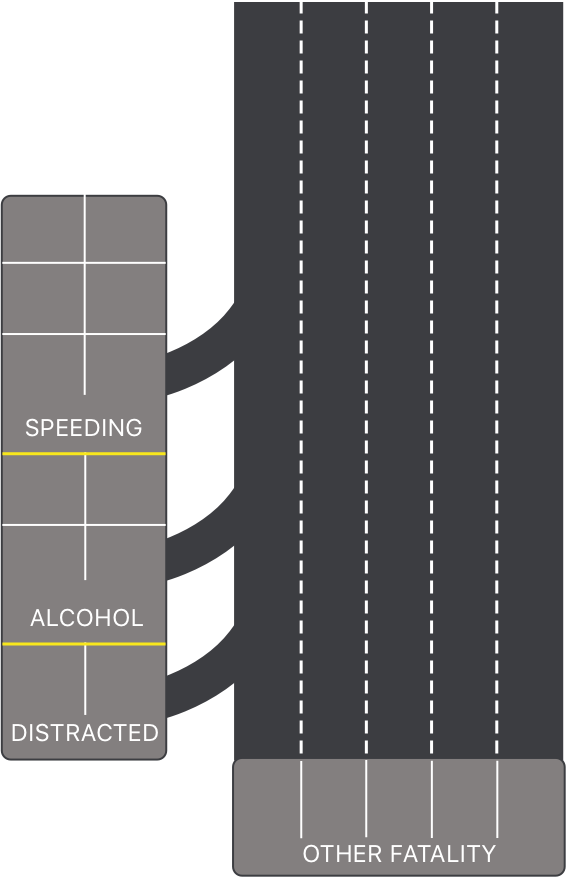
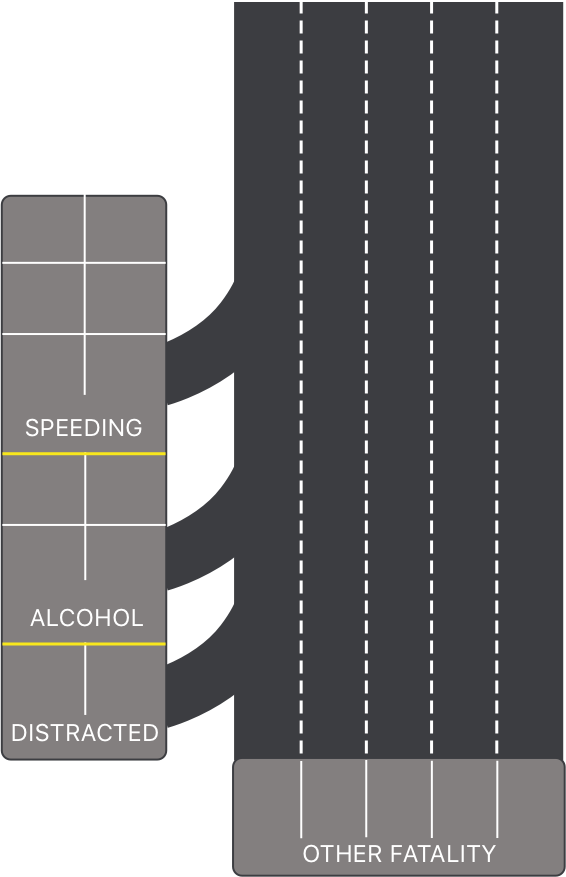
working on rotation

diff --git a/js/movingCars.js b/js/movingCars.js
@@ -64,13 +64,14 @@ function drawCars(causeData, carData) {
     d.x = +d.x;
     d.y = +d.y;
 
+    var carG = roadSvgContainer.append("g");
     // create and position car
-    var car = roadSvgContainer.append("image")
+    var car = carG.append("image")
       .attr("xlink:href", "img/whiteCar.png")
       .attr("height", 50)
       .attr("x", d.x)
       .attr("y", d.y)
-      .attr("id", "car" + (i + 1))
+      .attr("id", "car" + (i + 1));
   });
 
   var path = roadSvgContainer.append("path")
@@ -80,7 +81,6 @@ function drawCars(causeData, carData) {
         .tension(0) // Catmull–Rom
         .interpolate("cardinal")
     )
-    .attr("stroke", "red");
 
   for (var i = 6; i < 11; i++) {
     var carNum = "#car" + i;
@@ -98,6 +98,7 @@ function carTransition(path, car, delay) {
     .delay(delay)
     .duration(3000)
     .attrTween("transform", translateAlong(path.node()))
+    // .attr("transform", "rotate(30)")
     // .each("end", carTransition);
 }
 

diff --git a/styles/style.css b/styles/style.css
@@ -60,7 +60,7 @@ label {
 
 
 #roadViz {
-  border: 3px solid black;
+  /*border: 3px solid black;*/
   width: 1000px;
   margin: 0 auto;
 }
